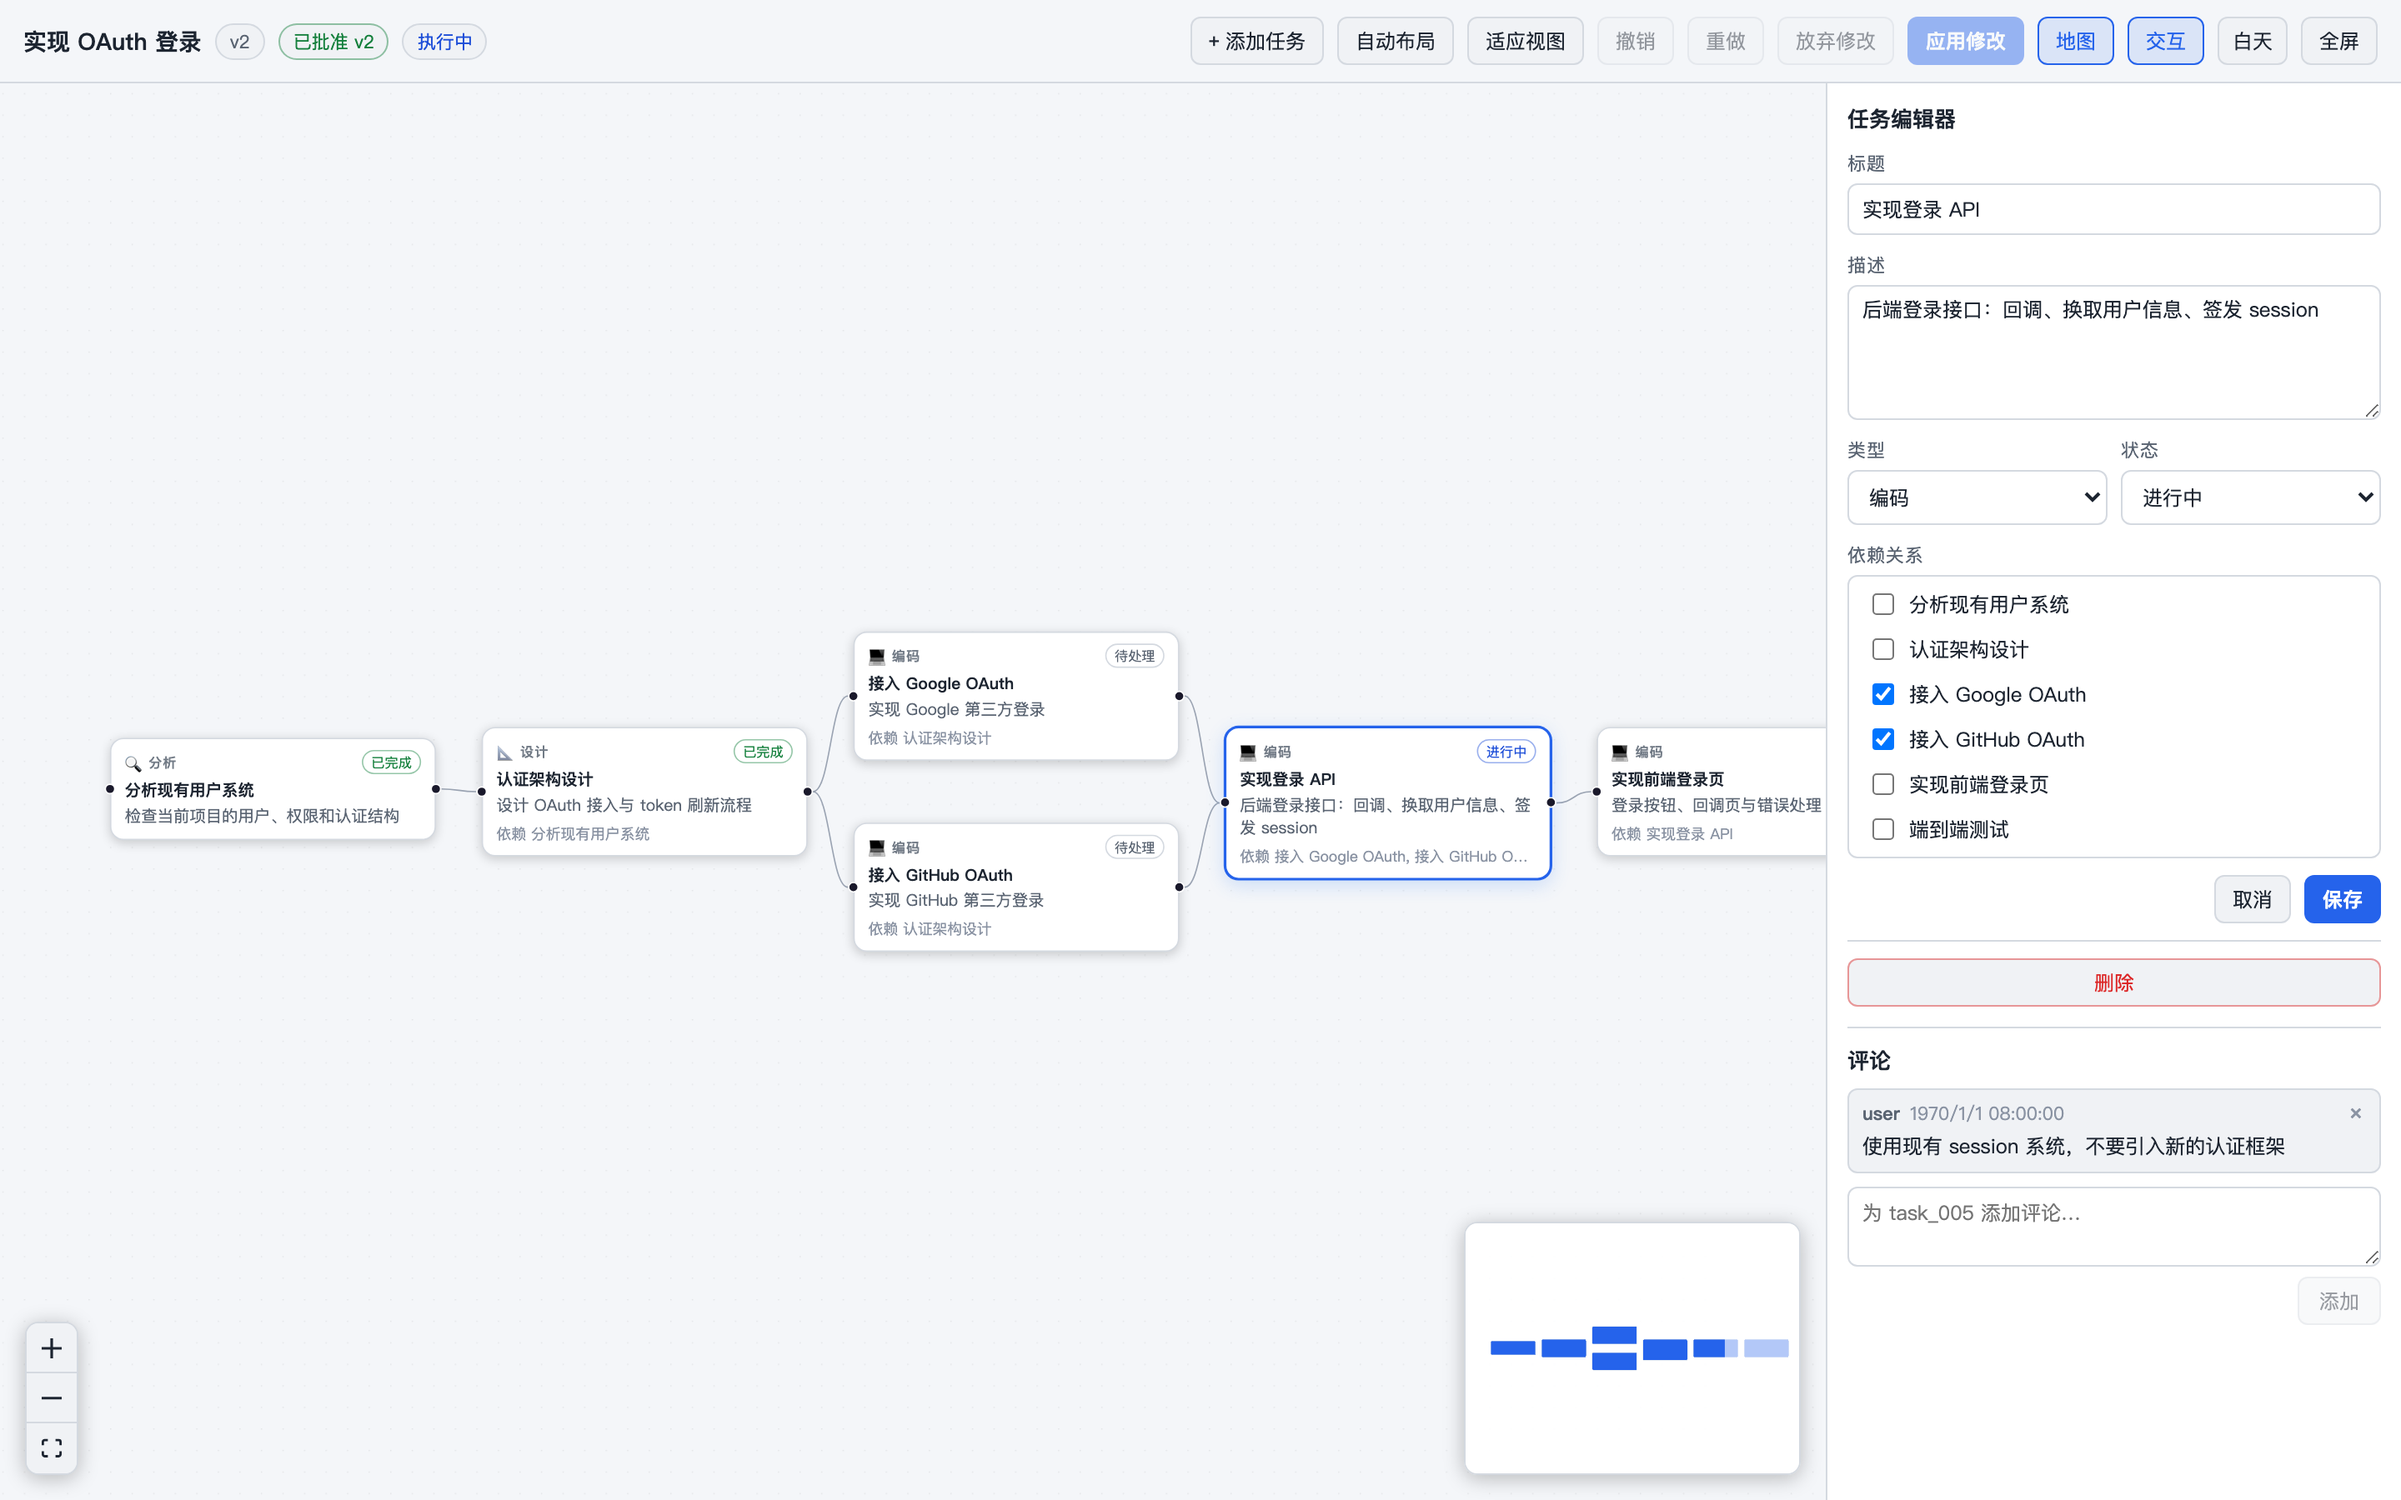
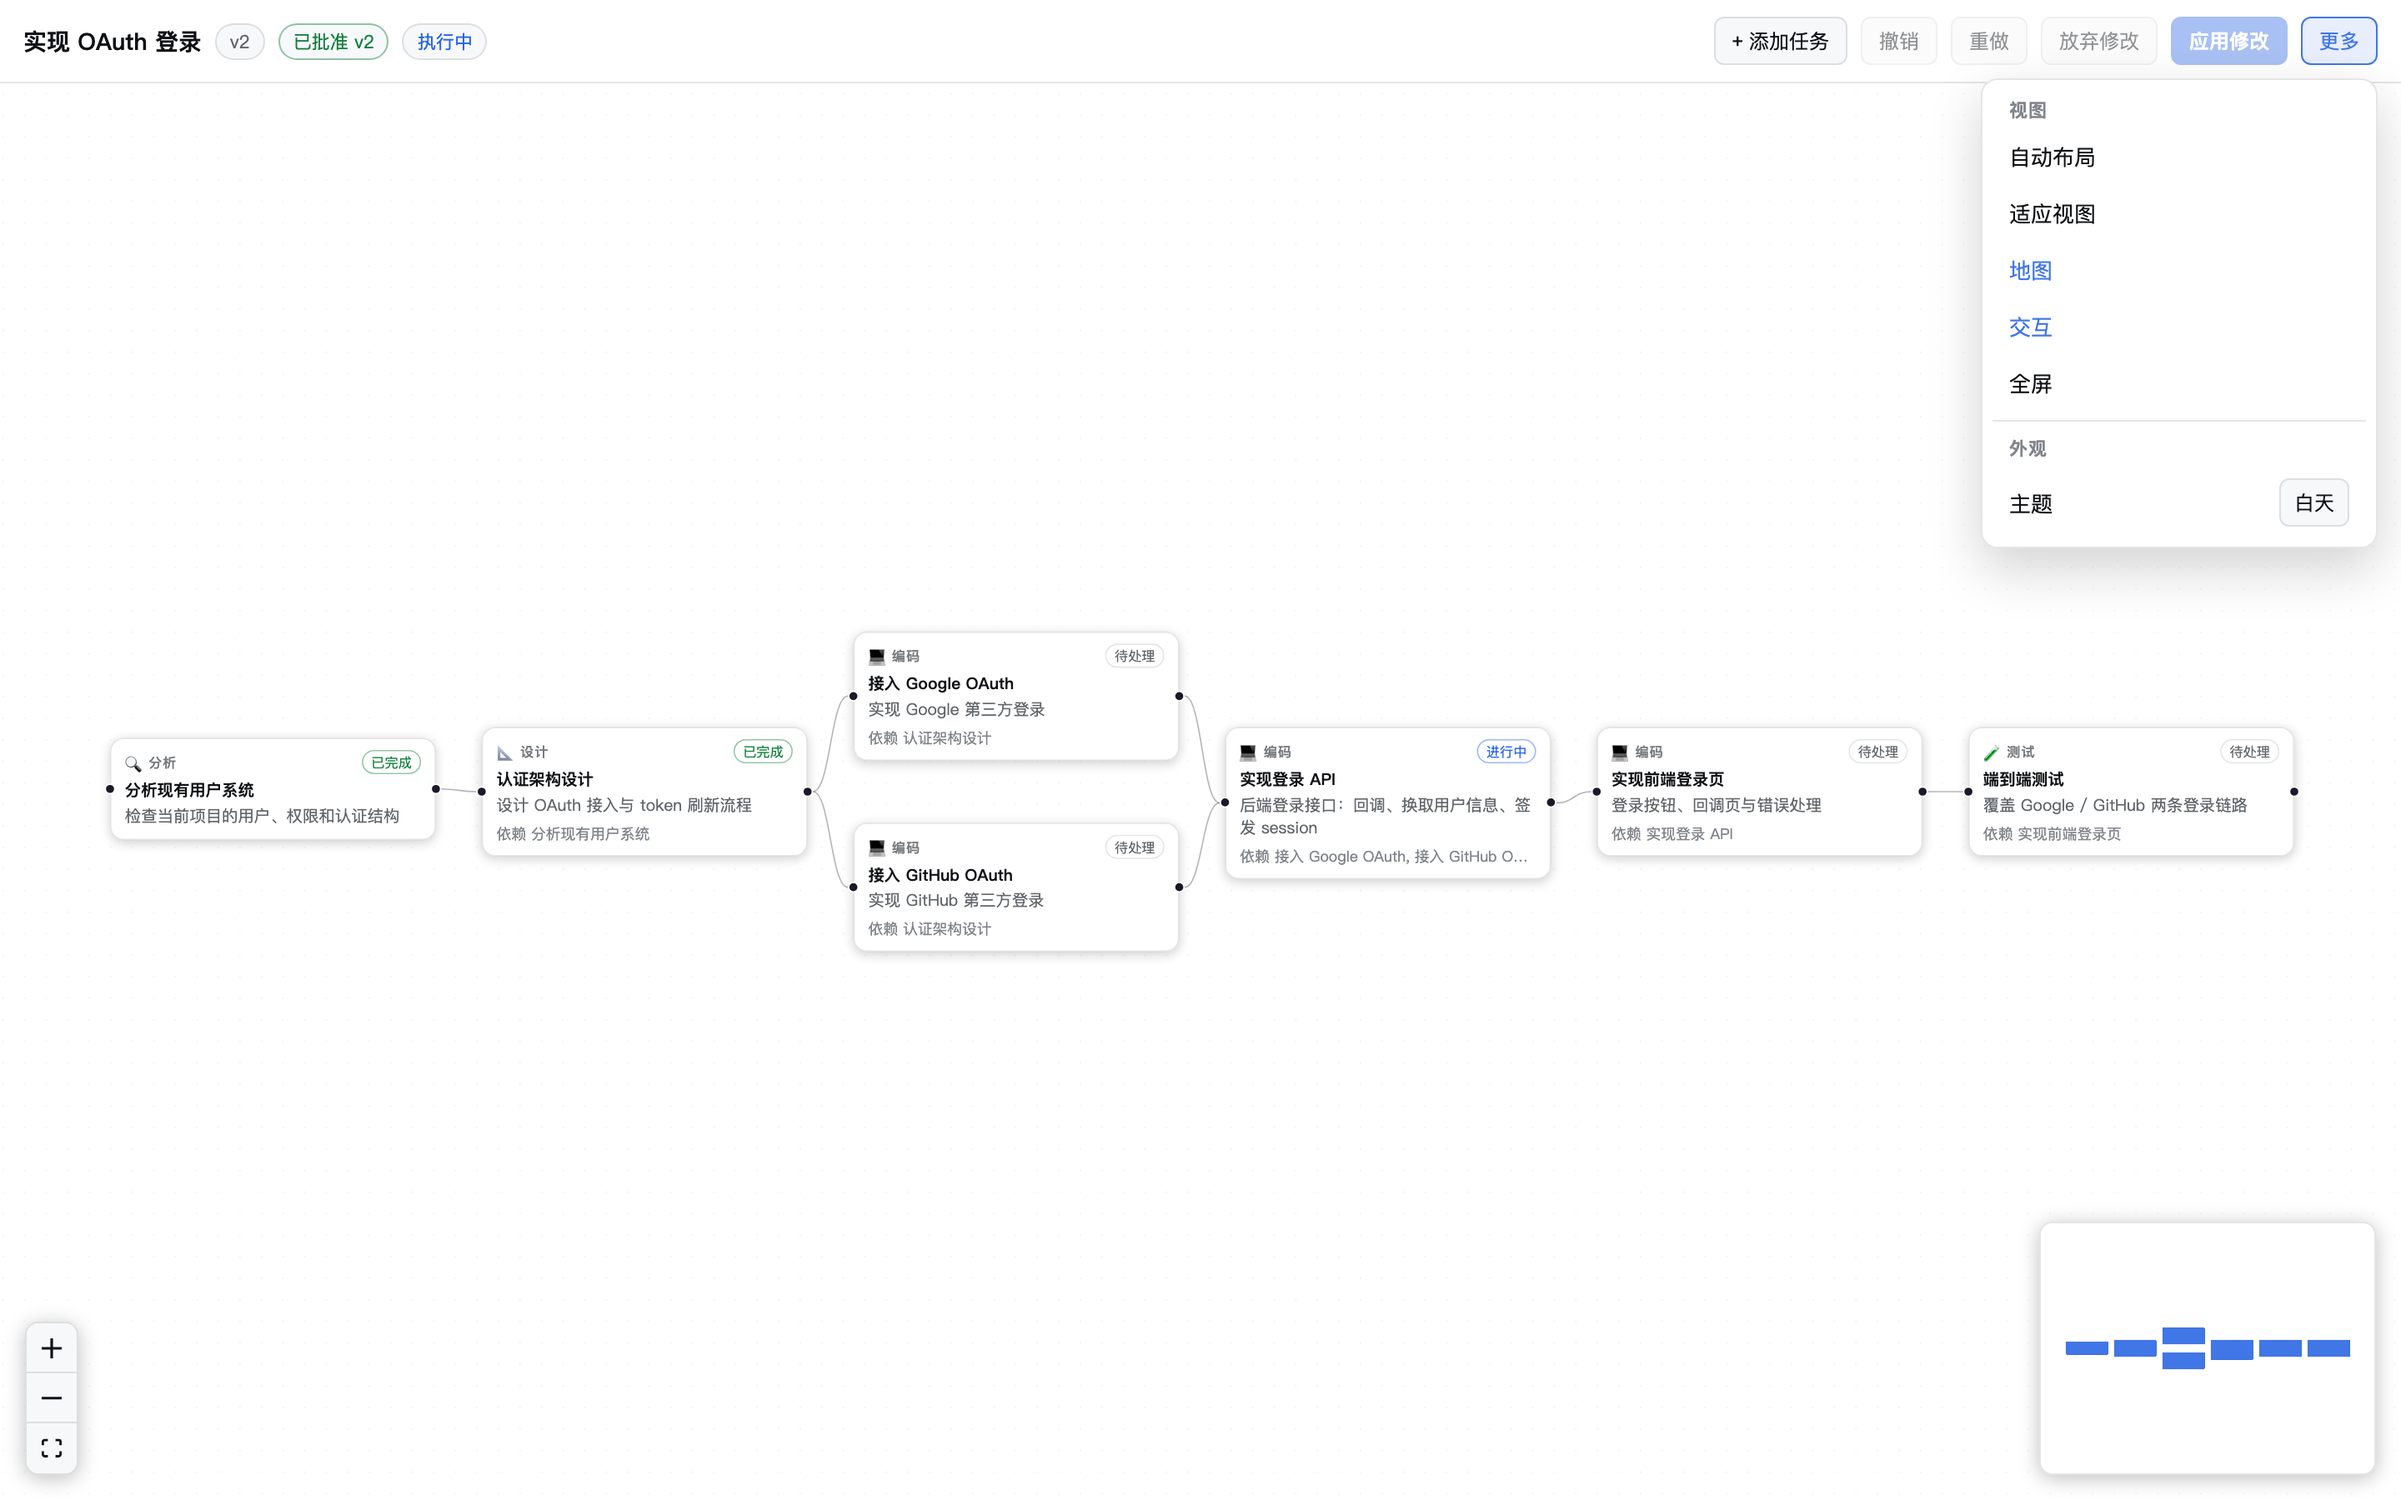
feat: group secondary toolbar actions into a categorized More menu
Primary actions (add task, undo/redo, discard, apply) stay on the toolbar;
auto-layout, fit view, minimap, interactivity, fullscreen and the theme
picker move into a More dropdown grouped by View / Appearance. Escape and
outside-click close it. Also align the explicit day theme with the real DSH
light tokens (pure white canvas, near-black text) so day mode matches the
follow-mode light appearance instead of a grayish approximation.

diff --git a/src/client/canvas/PlanCanvas.tsx b/src/client/canvas/PlanCanvas.tsx
@@ -85,6 +85,7 @@ export function PlanCanvas(props: PlanCanvasProps): JSX.Element {
   const [showMinimap, setShowMinimap] = useState<boolean>(() => readPref<boolean>(MINIMAP_KEY, true))
   const [interactive, setInteractive] = useState<boolean>(() => readPref<boolean>(INTERACTIVE_KEY, true))
   const [fullscreen, setFullscreen] = useState(false)
+  const [menuOpen, setMenuOpen] = useState(false)
   const dragPositions = useRef<PlanPositions>({})
   const rfRef = useRef<ReactFlowInstance<PlanFlowNodeType, Edge> | null>(null)
 
@@ -207,6 +208,10 @@ export function PlanCanvas(props: PlanCanvasProps): JSX.Element {
         if (state.dirty) setDiffOpen(true)
         return
       }
+      if (event.key === 'Escape') {
+        setMenuOpen(false)
+        return
+      }
       if (!mod && (event.key === 'Delete' || event.key === 'Backspace')) {
         if (selectedId !== null) {
           event.preventDefault()
@@ -284,12 +289,6 @@ export function PlanCanvas(props: PlanCanvasProps): JSX.Element {
           <button type="button" className={styles.action} onClick={() => { setSelectedId(null); setPanelMode('new'); setConfirmDelete(false) }}>
             + {t('toolbar.addTask')}
           </button>
-          <button type="button" className={styles.action} onClick={() => setPositions(layoutPlan(plan))}>
-            {t('toolbar.autoLayout')}
-          </button>
-          <button type="button" className={styles.action} title={t('toolbar.fitViewHint')} onClick={() => rfRef.current?.fitView({ padding: 0.2 })}>
-            {t('toolbar.fitView')}
-          </button>
           <button type="button" className={styles.action} disabled={state.past.length === 0} title={t('toolbar.undoHint')} onClick={() => dispatch({ type: 'undo' })}>
             {t('toolbar.undo')}
           </button>
@@ -302,45 +301,92 @@ export function PlanCanvas(props: PlanCanvasProps): JSX.Element {
           <button type="button" className={`${styles.action} ${styles.actionPrimary}`} disabled={!state.dirty} onClick={() => setDiffOpen(true)}>
             {t('toolbar.apply')}
           </button>
-          <button
-            type="button"
-            className={`${styles.action} ${showMinimap ? styles.actionActive : ''}`}
-            aria-pressed={showMinimap}
-            title={t('toolbar.map')}
-            onClick={() => setShowMinimap((v) => !v)}
-          >
-            {t('toolbar.map')}
-          </button>
-          <button
-            type="button"
-            className={`${styles.action} ${interactive ? styles.actionActive : ''}`}
-            aria-pressed={interactive}
-            title={t('toolbar.interactive')}
-            onClick={() => setInteractive((v) => !v)}
-          >
-            {t('toolbar.interactive')}
-          </button>
-          <label className={styles.selectWrap} title={t('toolbar.theme')}>
-            <span className={styles.visuallyHidden}>{t('toolbar.theme')}</span>
-            <select
-              className={styles.select}
-              value={theme}
-              aria-label={t('toolbar.theme')}
-              onChange={(e) => setTheme(e.target.value as ThemeMode)}
+          <div className={styles.moreWrap}>
+            <button
+              type="button"
+              className={`${styles.action} ${menuOpen ? styles.actionActive : ''}`}
+              aria-haspopup="menu"
+              aria-expanded={menuOpen}
+              onClick={() => setMenuOpen((v) => !v)}
             >
-              <option value="follow">{t('toolbar.themeFollow')}</option>
-              <option value="day">{t('toolbar.themeDay')}</option>
-              <option value="night">{t('toolbar.themeNight')}</option>
-            </select>
-          </label>
-          <button
-            type="button"
-            className={styles.action}
-            title={fullscreen ? t('toolbar.exitFullscreen') : t('toolbar.fullscreen')}
-            onClick={() => setFullscreen((v) => !v)}
-          >
-            {fullscreen ? t('toolbar.exitFullscreen') : t('toolbar.fullscreen')}
-          </button>
+              {t('toolbar.more')}
+            </button>
+            {menuOpen && (
+              <>
+                <button
+                  type="button"
+                  className={styles.menuBackdrop}
+                  tabIndex={-1}
+                  aria-label={t('diff.cancel')}
+                  onClick={() => setMenuOpen(false)}
+                />
+                <div className={styles.moreMenu} role="menu">
+                  <div className={styles.moreGroup} role="group" aria-label={t('group.view')}>
+                    <div className={styles.moreGroupTitle}>{t('group.view')}</div>
+                    <button
+                      type="button"
+                      role="menuitem"
+                      className={styles.moreItem}
+                      onClick={() => { setPositions(layoutPlan(plan)); setMenuOpen(false) }}
+                    >
+                      {t('toolbar.autoLayout')}
+                    </button>
+                    <button
+                      type="button"
+                      role="menuitem"
+                      className={styles.moreItem}
+                      onClick={() => { rfRef.current?.fitView({ padding: 0.2 }); setMenuOpen(false) }}
+                    >
+                      {t('toolbar.fitView')}
+                    </button>
+                    <button
+                      type="button"
+                      role="menuitem"
+                      className={`${styles.moreItem} ${showMinimap ? styles.moreItemActive : ''}`}
+                      aria-pressed={showMinimap}
+                      onClick={() => { setShowMinimap((v) => !v); setMenuOpen(false) }}
+                    >
+                      {t('toolbar.map')}
+                    </button>
+                    <button
+                      type="button"
+                      role="menuitem"
+                      className={`${styles.moreItem} ${interactive ? styles.moreItemActive : ''}`}
+                      aria-pressed={interactive}
+                      onClick={() => { setInteractive((v) => !v); setMenuOpen(false) }}
+                    >
+                      {t('toolbar.interactive')}
+                    </button>
+                    <button
+                      type="button"
+                      role="menuitem"
+                      className={`${styles.moreItem} ${fullscreen ? styles.moreItemActive : ''}`}
+                      aria-pressed={fullscreen}
+                      onClick={() => { setFullscreen((v) => !v); setMenuOpen(false) }}
+                    >
+                      {fullscreen ? t('toolbar.exitFullscreen') : t('toolbar.fullscreen')}
+                    </button>
+                  </div>
+                  <div className={styles.moreGroup} role="group" aria-label={t('group.appearance')}>
+                    <div className={styles.moreGroupTitle}>{t('group.appearance')}</div>
+                    <label className={styles.moreThemeRow}>
+                      <span>{t('toolbar.theme')}</span>
+                      <select
+                        className={styles.select}
+                        value={theme}
+                        aria-label={t('toolbar.theme')}
+                        onChange={(e) => { setTheme(e.target.value as ThemeMode); setMenuOpen(false) }}
+                      >
+                        <option value="follow">{t('toolbar.themeFollow')}</option>
+                        <option value="day">{t('toolbar.themeDay')}</option>
+                        <option value="night">{t('toolbar.themeNight')}</option>
+                      </select>
+                    </label>
+                  </div>
+                </div>
+              </>
+            )}
+          </div>
         </div>
       </div>
 

diff --git a/src/client/canvas/PlanCanvas.module.css b/src/client/canvas/PlanCanvas.module.css
@@ -38,28 +38,31 @@ body[data-ds-dark-theme] .root:not([data-theme]) {
 }
 
 .root[data-theme='day'] {
-  --vp-canvas: #f4f6f9;
+  /* Mirrors the real DSH light tokens (same values the follow mode reads),
+     so an explicit "day" theme looks identical to a light app — pure white
+     canvas and near-black text, not a grayish approximation. */
+  --vp-canvas: #ffffff;
   --vp-surface-card: #ffffff;
-  --vp-surface-raised: #f0f2f5;
+  --vp-surface-raised: #f7f8fa;
   --vp-surface-input: #ffffff;
-  --vp-border: #d4d9e0;
-  --vp-text-primary: #1c2430;
-  --vp-text-secondary: #5a6472;
-  --vp-text-tertiary: #8a93a3;
-  --vp-accent: #2563eb;
-  --vp-accent-hover: #1d4ed8;
-  --vp-hover: rgba(0, 0, 0, 0.05);
-  --vp-grid: rgba(0, 0, 0, 0.09);
-  --vp-edge: #9aa3b2;
-  --vp-minimap-bg: rgba(255, 255, 255, 0.92);
-  --vp-minimap-node: #2563eb;
-  --vp-minimap-stroke: #cbd5e1;
-  --vp-minimap-mask: rgba(255, 255, 255, 0.65);
+  --vp-border: rgba(0, 0, 0, 0.1);
+  --vp-text-primary: #0f1115;
+  --vp-text-secondary: #61666b;
+  --vp-text-tertiary: #81858c;
+  --vp-accent: #4176e6;
+  --vp-accent-hover: #679efe;
+  --vp-hover: rgba(38, 49, 72, 0.06);
+  --vp-grid: rgba(15, 17, 21, 0.1);
+  --vp-edge: rgba(129, 133, 140, 0.6);
+  --vp-minimap-bg: #ffffff;
+  --vp-minimap-node: #4176e6;
+  --vp-minimap-stroke: rgba(0, 0, 0, 0.1);
+  --vp-minimap-mask: rgba(255, 255, 255, 0.55);
   --vp-warn: #b45309;
   --vp-ok: #15803d;
-  --vp-info: #1d4ed8;
+  --vp-info: #2563eb;
   --vp-danger: #dc2626;
-  --vp-overlay: rgba(0, 0, 0, 0.35);
+  --vp-overlay: rgba(0, 0, 0, 0.24);
 }
 
 .root[data-theme='night'] {
@@ -231,6 +234,91 @@ body[data-ds-dark-theme] .root:not([data-theme]) {
 
 .actionPrimary:hover:not(:disabled) {
   background: var(--vp-accent-hover);
+}
+
+.moreWrap {
+  position: relative;
+}
+
+.menuBackdrop {
+  position: fixed;
+  inset: 0;
+  z-index: 30;
+  border: 0;
+  padding: 0;
+  background: transparent;
+  cursor: default;
+}
+
+.moreMenu {
+  position: absolute;
+  top: calc(100% + 8px);
+  right: 0;
+  z-index: 31;
+  min-width: 224px;
+  background: var(--vp-surface-card);
+  border: 1px solid var(--vp-border);
+  border-radius: 10px;
+  box-shadow: 0 12px 32px rgba(0, 0, 0, 0.18);
+  padding: 6px;
+  display: flex;
+  flex-direction: column;
+  gap: 2px;
+}
+
+.moreGroup {
+  display: flex;
+  flex-direction: column;
+  gap: 2px;
+}
+
+.moreGroup + .moreGroup {
+  border-top: 1px solid var(--vp-border);
+  margin-top: 4px;
+  padding-top: 4px;
+}
+
+.moreGroupTitle {
+  font-size: 11px;
+  font-weight: 700;
+  letter-spacing: 0.05em;
+  text-transform: uppercase;
+  color: var(--vp-text-tertiary);
+  padding: 4px 10px 2px;
+}
+
+.moreItem {
+  appearance: none;
+  display: flex;
+  align-items: center;
+  justify-content: space-between;
+  width: 100%;
+  text-align: left;
+  padding: 7px 10px;
+  border: 0;
+  border-radius: 6px;
+  background: transparent;
+  color: var(--vp-text-primary);
+  font-size: 13px;
+  cursor: pointer;
+}
+
+.moreItem:hover {
+  background: var(--vp-hover);
+}
+
+.moreItemActive {
+  color: var(--vp-accent);
+}
+
+.moreThemeRow {
+  display: flex;
+  align-items: center;
+  justify-content: space-between;
+  gap: 12px;
+  padding: 6px 10px;
+  font-size: 13px;
+  color: var(--vp-text-primary);
 }
 
 .selectWrap {

diff --git a/src/client/i18n.ts b/src/client/i18n.ts
@@ -25,6 +25,9 @@ const zh = {
   'toolbar.undoHint': '撤销 (Cmd/Ctrl+Z)',
   'toolbar.redo': '重做',
   'toolbar.redoHint': '重做 (Cmd/Ctrl+Shift+Z)',
+  'toolbar.more': '更多',
+  'group.view': '视图',
+  'group.appearance': '外观',
   'toolbar.discard': '放弃修改',
   'toolbar.apply': '应用修改',
   'toolbar.edited': '已修改',
@@ -112,6 +115,9 @@ export const visualPlanEn: Record<VisualPlanKey, string> = {
   'toolbar.undoHint': 'Undo (Cmd/Ctrl+Z)',
   'toolbar.redo': 'Redo',
   'toolbar.redoHint': 'Redo (Cmd/Ctrl+Shift+Z)',
+  'toolbar.more': 'More',
+  'group.view': 'View',
+  'group.appearance': 'Appearance',
   'toolbar.discard': 'Discard',
   'toolbar.apply': 'Apply Changes',
   'toolbar.edited': 'Edited',
